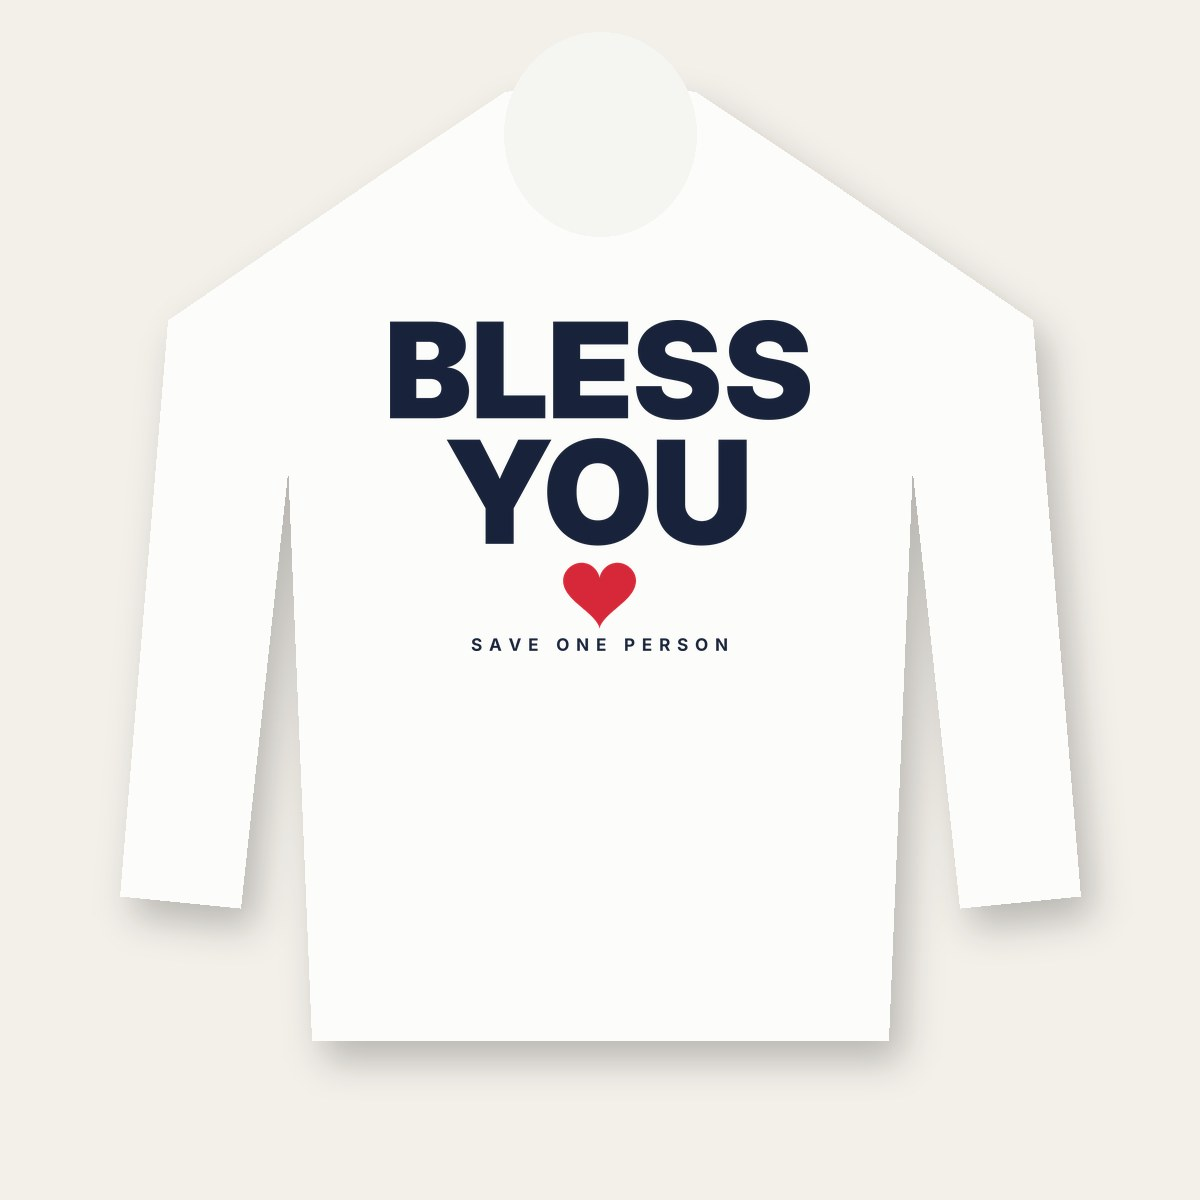
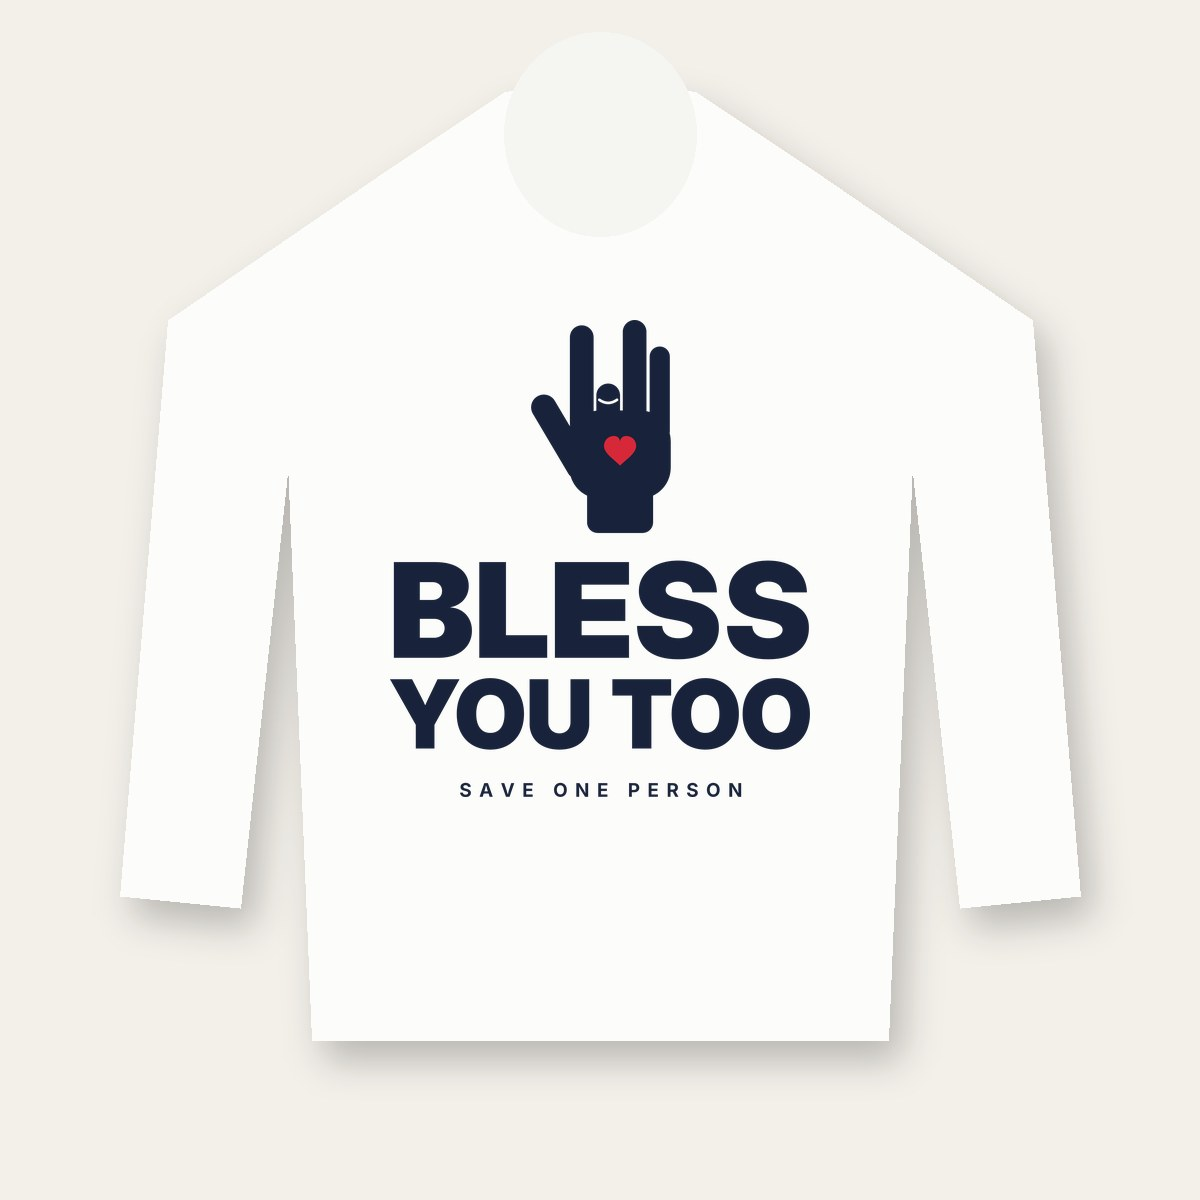
Shop: blessing hand on the back of every Go Bless Yourself item; tote now $36
Claude-Session: https://claude.ai/code/session_01QWtLC1mkNnbDAXSud88d3K

Changed region(s): [[0.3083, 0.2467, 0.6783, 0.6783]]

diff --git a/src/lib/shop/staticProducts.ts b/src/lib/shop/staticProducts.ts
@@ -53,7 +53,7 @@ function product(p: {
 export const STATIC_PRODUCTS: ShopProduct[] = [
   product({
     key: 'tee', handle: 'go-bless-yourself-t-shirt', title: 'Go Bless Yourself T-Shirt', position: -5, optionName: 'Size',
-    lead: '<strong>GO BLESS YOURSELF</strong> on the front. <strong>BLESS YOU TOO</strong> on the back.',
+    lead: '<strong>GO BLESS YOURSELF</strong> on the front. Our blessing hand and <strong>BLESS YOU TOO</strong> on the back.',
     bullets: ['Soft 100% ring-spun cotton', 'Classic unisex fit', 'White, sizes XS to 5XL', 'Printed just for you when you order'],
     v: variants('gby', 36, [
       ['XS', 67815534002346], ['S', 67815534035114], ['M', 67815534067882], ['L', 67815534100650], ['XL', 67815534133418],
@@ -61,12 +61,12 @@ export const STATIC_PRODUCTS: ShopProduct[] = [
     ]),
     img: images('gby', [
       ['/images/shop/go-bless-yourself-front.jpg', 'White T-shirt, front: GO BLESS YOURSELF with a red heart'],
-      ['/images/shop/go-bless-yourself-back.jpg', 'White T-shirt, back: BLESS YOU TOO, red heart, SAVE ONE PERSON'],
+      ['/images/shop/go-bless-yourself-back.jpg', 'White T-shirt, back: blessing hand with a red heart, BLESS YOU TOO, SAVE ONE PERSON'],
     ]),
   }),
   product({
     key: 'hoodie', handle: 'go-bless-yourself-hoodie', title: 'Go Bless Yourself Hoodie', position: -4, optionName: 'Size',
-    lead: '<strong>GO BLESS YOURSELF</strong> on the front. <strong>BLESS YOU</strong> on the back.',
+    lead: '<strong>GO BLESS YOURSELF</strong> on the front. Our blessing hand and <strong>BLESS YOU TOO</strong> on the back.',
     bullets: ['Soft cotton-poly fleece', 'Front pouch pocket and roomy hood', 'White, sizes S to 5XL', 'Printed just for you when you order'],
     v: variants('hoodie', 52, [
       ['S', 67815643709610], ['M', 67815643742378], ['L', 67815643775146], ['XL', 67815643807914],
@@ -74,28 +74,28 @@ export const STATIC_PRODUCTS: ShopProduct[] = [
     ]),
     img: images('hoodie', [
       ['/images/shop/hoodie-front.jpg', 'White hoodie, front: GO BLESS YOURSELF with a red heart'],
-      ['/images/shop/hoodie-back.jpg', 'White hoodie, back: BLESS YOU, red heart, SAVE ONE PERSON'],
+      ['/images/shop/hoodie-back.jpg', 'White hoodie, back: blessing hand with a red heart, BLESS YOU TOO, SAVE ONE PERSON'],
     ]),
   }),
   product({
     key: 'hat', handle: 'go-bless-yourself-hat', title: 'Go Bless Yourself Hat', position: -3, optionName: 'Size',
-    lead: '<strong>GO BLESS YOURSELF</strong>, embroidered in navy on a white dad hat.',
+    lead: '<strong>GO BLESS YOURSELF</strong>, embroidered in navy on a white dad hat, with our blessing hand stitched on the back.',
     bullets: ['100% cotton twill, soft and unstructured', 'Adjustable strap, one size fits most', 'Embroidered just for you when you order'],
     v: variants('hat', 36, [['One size', 67815635255466]]),
-    img: images('hat', [['/images/shop/hat.jpg', 'White dad hat embroidered GO BLESS YOURSELF in navy']]),
+    img: images('hat', [['/images/shop/hat.jpg', 'White dad hat embroidered GO BLESS YOURSELF in navy'], ['/images/shop/hat-back.jpg', 'Back of the hat: embroidered blessing hand']]),
   }),
   product({
     key: 'tote', handle: 'go-bless-yourself-tote-bag', title: 'Go Bless Yourself Tote Bag', position: -2, optionName: 'Size',
-    lead: '<strong>GO BLESS YOURSELF</strong> on a natural organic cotton tote.',
+    lead: '<strong>GO BLESS YOURSELF</strong> on the front of a natural organic cotton tote. Our blessing hand and <strong>BLESS YOU TOO</strong> on the back.',
     bullets: ['100% organic cotton', 'Roomy enough for groceries, books and more', 'Printed just for you when you order'],
-    v: variants('tote', 30, [['One size', 67815638991018]]),
-    img: images('tote', [['/images/shop/tote.jpg', 'Natural cotton tote bag printed GO BLESS YOURSELF']]),
+    v: variants('tote', 36, [['One size', 67815638991018]]),
+    img: images('tote', [['/images/shop/tote.jpg', 'Natural cotton tote bag printed GO BLESS YOURSELF'], ['/images/shop/tote-back.jpg', 'Back of the tote: blessing hand and BLESS YOU TOO']]),
   }),
   product({
     key: 'mug', handle: 'go-bless-yourself-mug', title: 'Go Bless Yourself Mug', position: -1, optionName: 'Size',
-    lead: '<strong>GO BLESS YOURSELF</strong> on both sides of a glossy white mug.',
+    lead: '<strong>GO BLESS YOURSELF</strong> on one side. Our blessing hand and <strong>BLESS YOU TOO</strong> on the other.',
     bullets: ['11 oz ceramic, glossy finish', 'Dishwasher and microwave safe', 'Printed just for you when you order'],
     v: variants('mug', 20, [['11 oz', 67820996067498]]),
-    img: images('mug', [['/images/shop/mug.jpg', 'White mug printed GO BLESS YOURSELF']]),
+    img: images('mug', [['/images/shop/mug.jpg', 'White mug printed GO BLESS YOURSELF'], ['/images/shop/mug-back.jpg', 'Other side of the mug: blessing hand and BLESS YOU TOO']]),
   }),
 ]
